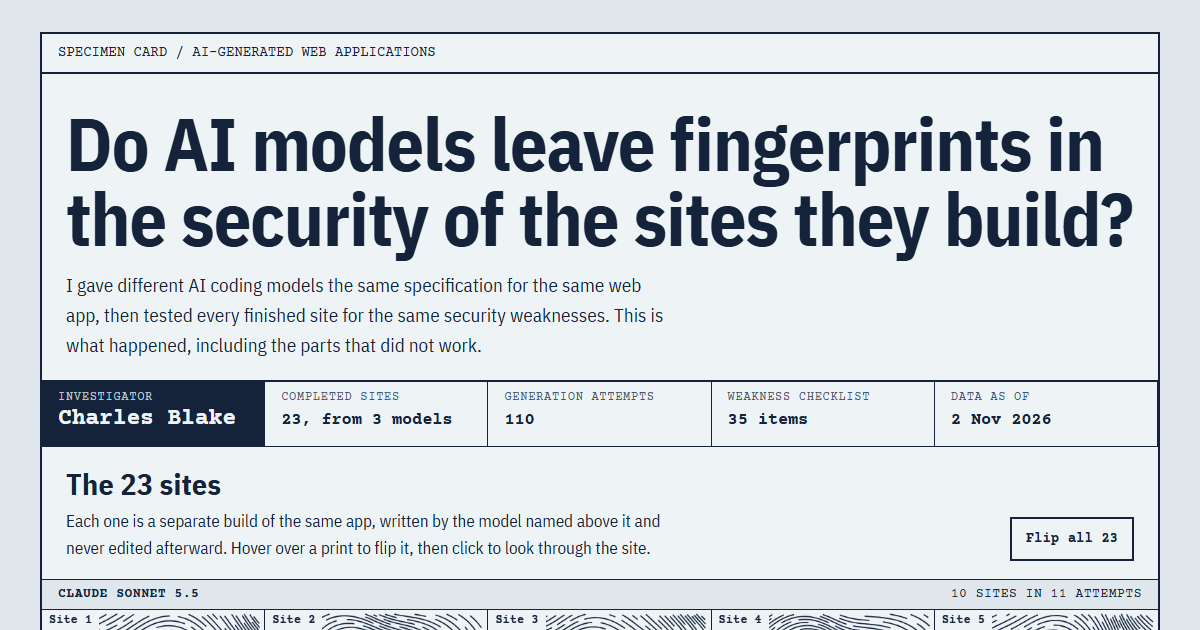
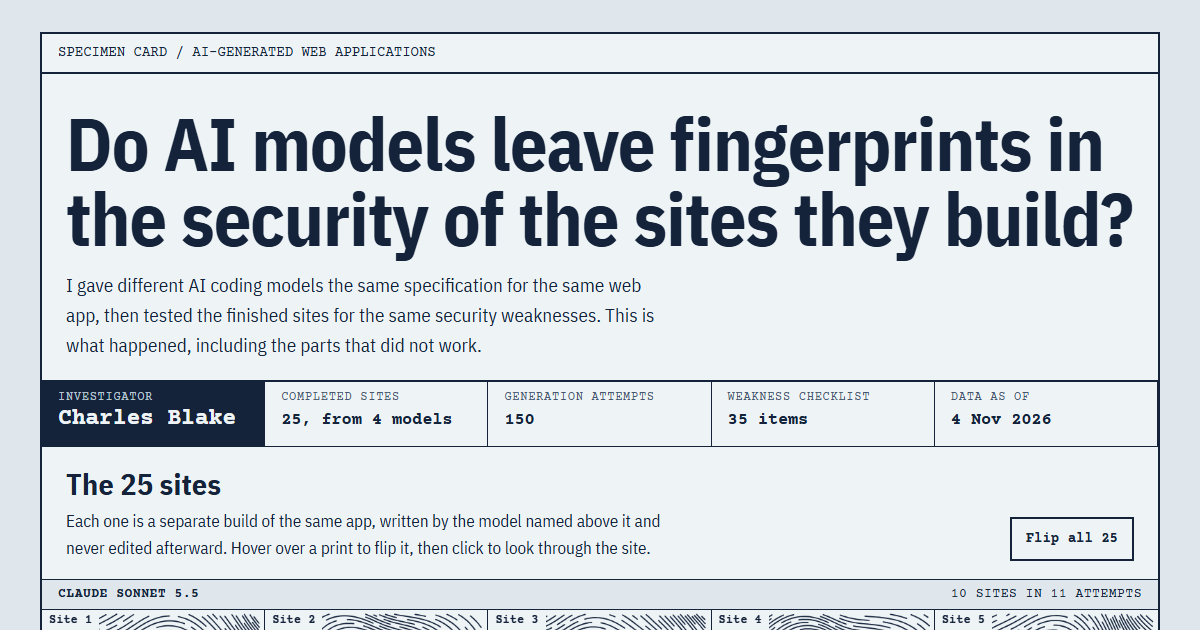
Add the 2 Haiku 4.5 sites and update attempt counts to 150

Changed region(s): [[0.1542, 0.4825, 0.555, 0.5127], [0.0925, 0.754, 0.1233, 0.7841]]

diff --git a/index.html b/index.html
@@ -241,25 +241,25 @@ dialog#viewer::backdrop{background:color-mix(in srgb,var(--fg) 78%,transparent)}
   <div class="head"><span>SPECIMEN CARD / AI-GENERATED WEB APPLICATIONS</span></div>
   <div class="hero">
     <h1>Do AI models leave fingerprints in the security of the sites they build?</h1>
-    <p>I gave different AI coding models the same specification for the same web app, then tested every finished site for the same security weaknesses. This is what happened, including the parts that did not work.</p>
+    <p>I gave different AI coding models the same specification for the same web app, then tested the finished sites for the same security weaknesses. This is what happened, including the parts that did not work.</p>
   </div>
   <div class="fields">
     <div class="field who"><small class="lbl">Investigator</small><b>Charles Blake</b></div>
-    <div class="field"><small class="lbl">Completed sites</small><b>23, from 3 models</b></div>
-    <div class="field"><small class="lbl">Generation attempts</small><b>110</b></div>
+    <div class="field"><small class="lbl">Completed sites</small><b>25, from 4 models</b></div>
+    <div class="field"><small class="lbl">Generation attempts</small><b>150</b></div>
     <div class="field"><small class="lbl">Weakness checklist</small><b>35 items</b></div>
-    <div class="field"><small class="lbl">Data as of</small><b>2 Nov 2026</b></div>
+    <div class="field"><small class="lbl">Data as of</small><b>4 Nov 2026</b></div>
   </div>
   <section class="sites" id="sites" aria-labelledby="sites-title">
     <div class="sites-head">
       <div>
-        <h2 id="sites-title">The 23 sites</h2>
+        <h2 id="sites-title">The 25 sites</h2>
         <p>Each one is a separate build of the same app, written by the model named above it and never edited afterward. <span class="hover-only">Hover over a print to flip it, then click to look through the site.</span><span class="touch-only">Tap a print to look through the site.</span></p>
       </div>
-      <button class="btn" type="button" id="flip-all" aria-pressed="false">Flip all 23</button>
+      <button class="btn" type="button" id="flip-all" aria-pressed="false">Flip all 25</button>
     </div>
     <div id="site-groups"></div>
-    <p class="cap sites-foot">These are screenshots, because the sites are left unhardened and stay on my lab machines. Every site shows the same demo project, so the differences come from the builder. I took them on the evening of 3 Nov 2026, so dates on the pages read 4 Nov UTC. The prints are drawn for illustration and do not encode data.</p>
+    <p class="cap sites-foot">These are screenshots, because the sites are left unhardened and stay on my lab machines. Every site shows the same demo project, so the differences come from the builder. I took them on 3 and 4 Nov 2026, so dates on the pages read 4 Nov UTC. The prints are drawn for illustration and do not encode data.</p>
   </section>
 
   <section class="sec"><header><span>A</span>QUESTION</header><div class="body">
@@ -280,12 +280,12 @@ dialog#viewer::backdrop{background:color-mix(in srgb,var(--fg) 78%,transparent)}
   </div></section>
 
   <section class="sec"><header><span>C</span>ATTEMPT LOG</header><div class="body">
-    <h2>23 sites took 110 tries</h2>
-    <div class="prose"><p>Getting models to finish the same app turned out to be most of the project. Each square below is one attempt, in date order by batch. Cloud models usually finished. Local models almost never did.</p></div>
-    <div class="ruled" id="log" role="img" aria-label="110 attempts in five batches. Claude Sonnet 5.5: 10 of 11 finished. Local models, weekend: 3 of 60. Local models, next run: 0 of 9. Claude Haiku 5.5: 10 of 13. Local models, third run: 0 of 17."></div>
+    <h2>25 sites took 150 tries</h2>
+    <div class="prose"><p>Getting models to finish the same app turned out to be most of the project. Each square below is one attempt, in date order by batch. Sonnet 5.5 and Haiku 5.5 usually finished. Haiku 4.5, GPT-6 Luna and the local models almost never did.</p></div>
+    <div class="ruled" id="log" role="img" aria-label="150 attempts in eight batches. Claude Sonnet 5.5: 10 of 11 finished. Local models, weekend: 3 of 60. Local models, next run: 0 of 9. Claude Haiku 5.5: 10 of 13. Local models, third run: 0 of 17. Local models, fourth run: 0 of 3. Claude Haiku 4.5: 2 of 30. GPT-6 Luna: 0 of 7."></div>
     <div class="legend" id="legend"></div>
-    <p class="cap">Within the local-model batches, squares are grouped by outcome instead of run order.</p>
-    <h3>How the 110 attempts ended</h3>
+    <p class="cap">Within the local-model batches, squares are grouped by outcome instead of run order. “Lab or harness blocked it” is the label my harness recorded, and for Haiku 4.5 it hides a problem described below.</p>
+    <h3>How the 150 attempts ended</h3>
     <div class="bars" id="outcomes"></div>
     <h3>What broke, and what I changed</h3>
     <div class="ruled" id="fixes"></div>
@@ -294,10 +294,10 @@ dialog#viewer::backdrop{background:color-mix(in srgb,var(--fg) 78%,transparent)}
   <section class="sec"><header><span>D</span>FINDINGS</header><div class="body">
     <h2>What the sites got wrong</h2>
     <div class="scroll"><table class="matrix" id="matrix"></table></div>
-    <p class="cap">Darker cells mean a larger share of that model's sites. Nemotron has only 3 sites, so its shares move in big steps.</p>
+    <p class="cap">Darker cells mean a larger share of that model's sites. Nemotron has only 3 sites, so its shares move in big steps. The 2 Haiku 4.5 sites have not been evaluated yet, so this table covers 23 sites.</p>
     <div class="prose">
-      <p>Across all 23 sites I confirmed no injection flaws, though one Nemotron site served uploaded files in a way that allowed stored XSS. Most weaknesses cluster in things the functional tests never check, such as session secrets, rate limits and security headers. Models build what gets tested.</p>
-      <p>Some items do differ by model. All 10 Haiku sites set a SameSite cookie, while 7 of 10 Sonnet sites and all 3 Nemotron sites left it out. This is an early hint, not a result: the samples are small and the Sonnet and Haiku evaluators had different tools.</p>
+      <p>Across the 23 evaluated sites I confirmed no injection flaws, though one Nemotron site served uploaded files in a way that allowed stored XSS. Most weaknesses cluster in things the functional tests never check, such as session secrets, rate limits and security headers. Models build what gets tested.</p>
+      <p>Some items do differ by model. All 10 Haiku 5.5 sites set a SameSite cookie, while 7 of 10 Sonnet sites and all 3 Nemotron sites left it out. This is an early hint, not a result: the samples are small and the Sonnet and Haiku 5.5 evaluators had different tools.</p>
     </div>
   </div></section>
 
@@ -306,7 +306,7 @@ dialog#viewer::backdrop{background:color-mix(in srgb,var(--fg) 78%,transparent)}
     <h2>The search for one sign that gives a weak AI site away</h2>
     <div class="prose">
       <p>The idea was simple and useful: find something visible from outside a site that shows up on AI-built sites and also goes along with real weaknesses. A real flag has to pass three tests. It recurs across sites, it comes from the AI and not from my setup, and anyone can see it from outside.</p>
-      <p>I checked public signals on the 3 Nemotron sites: pages, headers, cookies and the 404 page. The evaluation labels were saved first, so this search could not influence them. Items from the checklist cover all 23 sites. None of the 9 candidates passed all three tests.</p>
+      <p>I checked public signals on the 3 Nemotron sites: pages, headers, cookies and the 404 page. The evaluation labels were saved first, so this search could not influence them. Items from the checklist cover the 23 evaluated sites. None of the 9 candidates passed all three tests.</p>
     </div>
     <div class="scroll"><table class="flag-grid" id="flags"></table></div>
     <div class="prose">
@@ -329,8 +329,8 @@ dialog#viewer::backdrop{background:color-mix(in srgb,var(--fg) 78%,transparent)}
 
   <section class="sec"><header><span>H</span>LIMITS AND NEXT</header><div class="body">
     <div class="prose">
-      <p>This is exploratory work and leaves out final statistics. It has 3 models, small samples and one evaluator per site. The checklist is a pilot, and the evaluator setup changed between the Sonnet and Haiku sets. The count of 23 leaves out earlier calibration runs, one GPT-5.6 Sol site that was validated separately, and the Haiku 4.5 and GPT-6 Luna runs that began on Nov 2. I cannot yet claim that fingerprints exist.</p>
-      <p>Next: finish the Haiku 4.5 set, get a Codex set working, run the same public check on every set, try another hosting setup, and add human-written sites to compare against.</p>
+      <p>This is exploratory work and leaves out final statistics. It has 4 models, small samples and one evaluator per site. The checklist is a pilot, and the evaluator setup changed between the Sonnet and Haiku 5.5 sets. The count of 25 leaves out earlier calibration runs and one GPT-5.6 Sol site that was validated separately. I cannot yet claim that fingerprints exist.</p>
+      <p>Next: evaluate the 2 Haiku 4.5 sites, get a Codex set working, run the same public check on every set, try another hosting setup, and add human-written sites to compare against.</p>
     </div>
   </div></section>
 
@@ -373,14 +373,18 @@ var BATCHES=[
   {date:'Oct 23',name:'Local models, weekend',s:rep('done',3).concat(rep('stop',28),rep('time',9),rep('infra',8),rep('other',12))},
   {date:'Oct 27',name:'Local models, next run',s:rep('stop',4).concat(rep('infra',3),['time','other'])},
   {date:'Oct 29',name:'Claude Haiku 5.5',s:rep('done',5).concat(['infra','other','done','time'],rep('done',4))},
-  {date:'Oct 29 – Nov 2',name:'Local models, third run',s:['other'].concat(rep('time',8),rep('infra',6),['other','other'])}
+  {date:'Oct 29 – Nov 2',name:'Local models, third run',s:['other'].concat(rep('time',8),rep('infra',6),['other','other'])},
+  {date:'Nov 2',name:'Local models, fourth run',s:['other','infra','other']},
+  {date:'Nov 2',name:'Claude Haiku 4.5',s:['stop'].concat(rep('infra',9),['done'],rep('stop',3),rep('infra',3),['stop','infra','stop','done'],rep('infra',3),['time','infra','infra','stop','infra','stop'])},
+  {date:'Nov 2',name:'GPT-6 Luna',s:['other','stop','stop','other','stop','other','stop']}
 ];
 var FIXES=[
   ['Sep 23 – Oct 11','Building the lab came first','Spec, rules, isolated containers and functional checks all had to work before any comparison meant anything.','First full pass of all 27 functional checks on Oct 11.'],
   ['Oct 19–29','A tool quietly cut off long checks','Cloud models finished 20 sites in 24 tries, but Claude Code aborted some long checks after 300 seconds of silence.','Found it in the logs and turned off the idle limit.'],
   ['Oct 23–27','My harness ended 28 attempts early','A run ended the first time a model replied without using a tool. This was the biggest single cause in the weekend batch.','Added a bounded nudge so a model can keep going.'],
   ['Oct 27–29','Long runs overflowed','Long chats overflowed the context window of local models, and long commands hit a Windows length limit.','Added context trimming and sent long commands over stdin.'],
-  ['Oct 29 – Nov 2','Servers froze whole attempts','Models started servers in the foreground, which froze attempts for about 14 hours in total.','Added a 120-second limit per command.']
+  ['Oct 29 – Nov 2','Servers froze whole attempts','Models started servers in the foreground, which froze attempts for about 14 hours in total.','Added a 120-second limit per command.'],
+  ['Nov 2','Broken sites were filed as lab failures','At least 11 of the 19 blocked Haiku 4.5 attempts were crashes in the generated site, such as bad syntax or a missing module. My harness filed them as lab failures and halted the run after any two in a row.','Nothing yet. I still have to decide how the harness should treat them.']
 ];
 var FINDINGS=[
   ['No login throttling','Low',10,10,3],
@@ -399,12 +403,12 @@ var FLAGS=[
   ['Server: Werkzeug banner','It comes from the Flask development server my lab uses.',[[1,'All 3 sites in the public check.'],[0,'It comes from the Flask development server my lab uses.'],[1,'Any visitor can see it.']]],
   ['Default 404 page','A human-written Flask app would serve the same bytes.',[[1,'Byte-identical on all 3 sites.'],[0,'It is the framework default.'],[1,'Request any missing page.']]],
   ['Vary: Cookie','Flask adds it to session pages by default.',[[1,'All 3 sites.'],[0,'Flask adds it to session pages.'],[1,'It appears in every session response.']]],
-  ['Missing security headers','My strongest lead and a real weakness, but it does not separate AI code from human code.',[[1,'Confirmed on all 23 sites.'],[0,'Not shown: I have no human-written sites to compare, and my tests never ask for headers.'],[1,'Visible in any response.']]],
+  ['Missing security headers','My strongest lead and a real weakness, but it does not separate AI code from human code.',[[1,'Confirmed on all 23 evaluated sites.'],[0,'Not shown: I have no human-written sites to compare, and my tests never ask for headers.'],[1,'Visible in any response.']]],
   ['App name and form fields','I caused this one by giving every model the same spec.',[[1,'All 3 sites.'],[0,'The spec requires them.'],[1,'On the public pages.']]],
-  ['Cookie without SameSite','Too uneven to be universal. It may help tell models apart, which is the main question.',[[0,'Sonnet 7 of 10, Haiku 0 of 10, Nemotron 3 of 3.'],[1,'It looks like a model choice.'],[1,'Visible after login.']]],
+  ['Cookie without SameSite','Too uneven to be universal. It may help tell models apart, which is the main question.',[[0,'Sonnet 7 of 10, Haiku 5.5 0 of 10, Nemotron 3 of 3.'],[1,'It looks like a model choice.'],[1,'Visible after login.']]],
   ['HTML and CSS style','Three builds from one model looked different, with no shared tag or asset.',[[0,'External CSS, no CSS and inline CSS across three builds from one model.'],[1,'The markup is written by the model.'],[1,'Visible on any page.']]],
-  ['Forgeable default secret','The most serious common finding, on 18 of 23 sites, but outsiders cannot see it.',[[1,'18 of 23 sites, High severity.'],[1,"The default is written into the site's own files."],[0,'It takes the source to find.']]],
-  ['No login throttling','Common, but you cannot check it just by looking.',[[1,'Confirmed on all 23 sites.'],[0,'Not shown: my tests never ask for it, and I have no human comparison.'],[0,'It takes source review or repeated login attempts.']]]
+  ['Forgeable default secret','The most serious common finding, on 18 of the 23 evaluated sites, but outsiders cannot see it.',[[1,'18 of 23 evaluated sites, High severity.'],[1,"The default is written into the site's own files."],[0,'It takes the source to find.']]],
+  ['No login throttling','Common, but you cannot check it just by looking.',[[1,'Confirmed on all 23 evaluated sites.'],[0,'Not shown: my tests never ask for it, and I have no human comparison.'],[0,'It takes source review or repeated login attempts.']]]
 ];
 var TIMELINE=[
   ['Sep 23','Set the question, hypotheses and rules, then wrote the spec every model must build.'],
@@ -416,7 +420,8 @@ var TIMELINE=[
   ['Oct 23','First multi-model weekend on local models: 60 attempts, 3 sites.'],
   ['Oct 27','Traced the main failure to my own harness, fixed it, evaluated the 3 Nemotron sites, and ran the public flag check.'],
   ['Oct 29','Collected 10 Haiku 5.5 sites in 13 attempts and evaluated them.'],
-  ['Nov 2','Next local run: 0 sites in 17 attempts. Fixed a hang that had wasted about 14 hours, added a memory check, and started a Haiku 4.5 set.']
+  ['Nov 2','Next local run: 0 sites in 17 attempts. Fixed a hang that had wasted about 14 hours, and added a memory check.'],
+  ['Nov 2','Haiku 4.5 finished with 2 sites in 30 attempts and GPT-6 Luna with 0 in 7.']
 ];
 
 function esc(s){return String(s).replace(/&/g,'&amp;').replace(/</g,'&lt;').replace(/>/g,'&gt;').replace(/"/g,'&quot;')}
@@ -490,7 +495,8 @@ function print(canvas,seed){
 var GROUPS=[
   {key:'sonnet',name:'Claude Sonnet 5.5',n:10,tries:'10 sites in 11 attempts'},
   {key:'haiku',name:'Claude Haiku 5.5',n:10,tries:'10 sites in 13 attempts'},
-  {key:'nemotron',name:'Nemotron',n:3,tries:'3 sites',note:'Local models finished 3 of 86 attempts, and all 3 came from Nemotron.'}
+  {key:'nemotron',name:'Nemotron',n:3,tries:'3 sites',note:'Local models finished 3 of 89 attempts, and all 3 came from Nemotron.'},
+  {key:'haiku45',name:'Claude Haiku 4.5',n:2,tries:'2 sites in 30 attempts',note:'These 2 sites have not had the security evaluation yet.'}
 ];
 var PAGES=[['home','Home page'],['dashboard','Dashboard'],['project','Project'],['task','Task']];
 var SITES=[];
@@ -512,7 +518,7 @@ FLIPS.forEach(function(f){print(f.querySelector('canvas'),hash(SITES[+f.dataset.
 $('flip-all').addEventListener('click',function(){
   var on=$('sites').classList.toggle('show-all');
   this.setAttribute('aria-pressed',on);
-  this.textContent=on?'Show prints':'Flip all 23';
+  this.textContent=on?'Show prints':'Flip all 25';
 });
 
 /* Once, when the gallery first comes into view, run a wave across the cards so people see they flip. */
